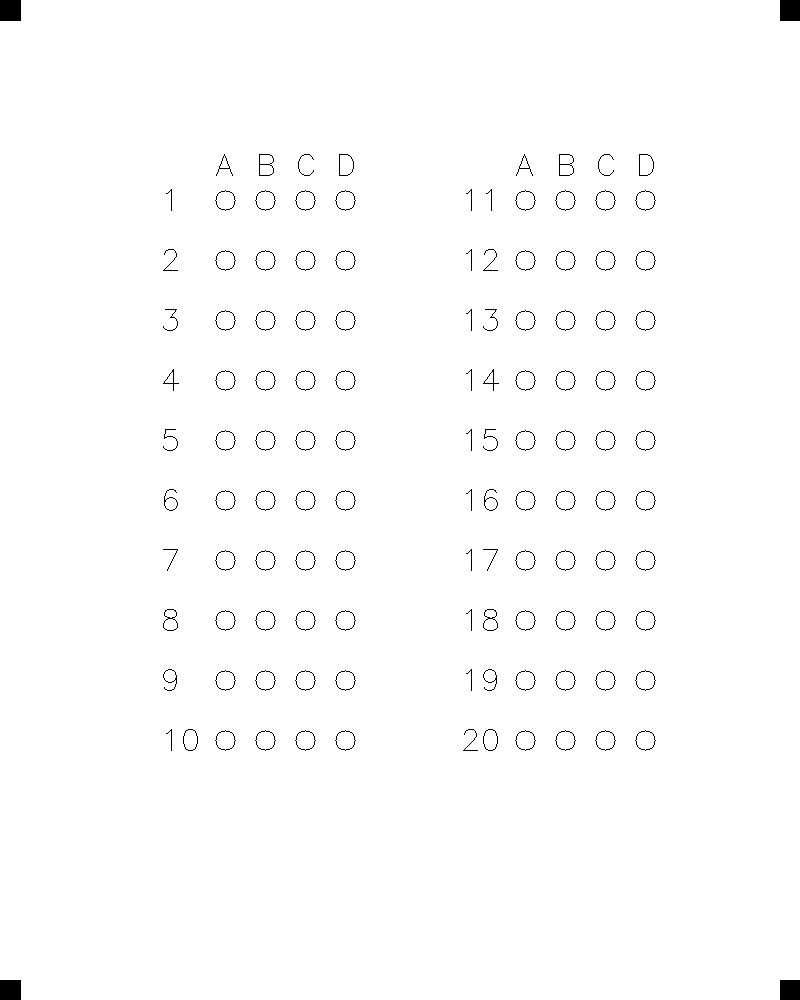
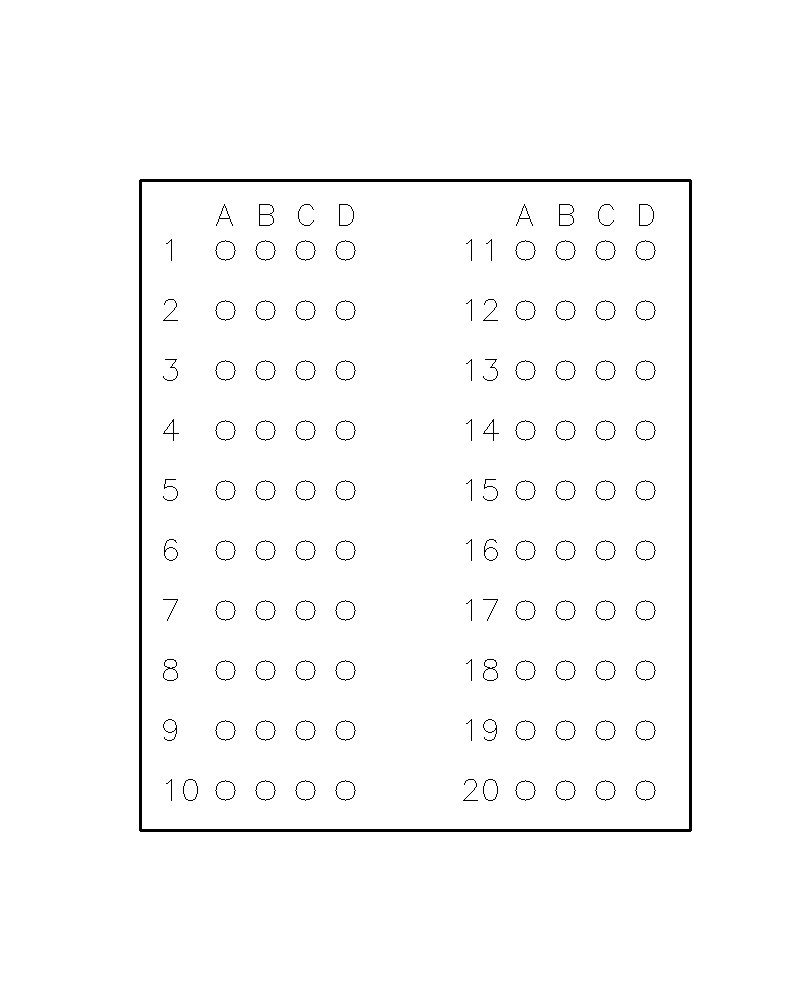
Meow

diff --git a/ServForAndroidApp/scan.py b/ServForAndroidApp/scan.py
@@ -5,7 +5,7 @@ import numpy as np
 widthImg = 800
 heightImg = 1000
 
-image = cv2.imread('test3.png')
+image = cv2.imread('test9.png')
 imgBlank = np.zeros((heightImg,widthImg, 3), np.uint8)
 gray = cv2.cvtColor(image, cv2.COLOR_BGR2GRAY)
 blurred = cv2.GaussianBlur(gray, (5, 5), 1)
@@ -13,7 +13,8 @@ blurred = cv2.GaussianBlur(gray, (5, 5), 1)
 #     blurred, 255, cv2.ADAPTIVE_THRESH_GAUSSIAN_C,
 #     cv2.THRESH_BINARY_INV, 11, 2
 # )
-adaptive_thresh = cv2.Canny(blurred, 70, 160)
+adaptive_thresh = cv2.Canny(blurred, 50, 200)
+
 kernel = np.ones((5, 5))
 dial = cv2.dilate(adaptive_thresh, kernel, iterations=2)
 adaptive_thresh = cv2.erode(dial, kernel, iterations=1)
@@ -23,7 +24,9 @@ imgBigContour = image.copy()
 
 contours, hierarchy = cv2.findContours(adaptive_thresh, cv2.RETR_EXTERNAL, cv2.CHAIN_APPROX_SIMPLE)
 cv2.drawContours(imgContours, contours, -1, (0, 255, 0), 10)
-
+imgcopy = cv2.resize(imgContours, (600, 750))
+cv2.imshow('origin', imgcopy)
+cv2.waitKey(0)
 
 
 def reorder(myPoints):
@@ -57,6 +60,13 @@ for i in contours:
     if area > 5000:
         peri = cv2.arcLength(i, True)
         approx = cv2.approxPolyDP(i, 0.02 * peri, True)
+
+        img_contours = np.uint8(np.zeros((image.shape[0], image.shape[1])))
+        cv2.drawContours(img_contours, [approx], -1, (255, 255, 255), 1)
+        imgcopy = cv2.resize(img_contours, (600, 750))
+        cv2.imshow('origin', imgcopy)
+        cv2.waitKey(0)
+
         if area > max_area and len(approx) == 4:
             biggest = approx
             max_area = area
@@ -78,101 +88,6 @@ if biggest.size != 0:
     imgAdaptiveThre = cv2.bitwise_not(imgAdaptiveThre)
     imgAdaptiveThre = cv2.medianBlur(imgAdaptiveThre, 3)
 
-#     imageArray = ([image, gray, adaptive_thresh, imgContours],
-#                   [imgBigContour, imgWarpColored, imgWarpGray, imgAdaptiveThre])
-#
-# else:
-#     imageArray = ([image,gray,adaptive_thresh,imgContours],
-#                     [imgBlank, imgBlank, imgBlank, imgBlank])
-
-
-cv2.imshow("Adaptive Threshold", imgAdaptiveThre)  # Отображаем адаптивный порог
+imgcopy = cv2.resize(imgAdaptiveThre, (600, 750))
+cv2.imshow('origin', imgcopy)
 cv2.waitKey(0)
-
-# # Применяем морфологическое закрытие для устранения мелких разрывов в контуре
-#
-# kernel = np.ones((5, 5), np.uint8)
-# closed = cv2.morphologyEx(adaptive_thresh, cv2.MORPH_CLOSE, kernel)
-# cv2.imshow("Morphological Closing", closed)  # Отображаем результат морфологического закрытия
-# cv2.waitKey(0)
-#
-# # Поиск контуров после морфологических преобразований
-# contours, _ = cv2.findContours(closed, cv2.RETR_EXTERNAL, cv2.CHAIN_APPROX_SIMPLE)
-#
-# # Инициализируем переменные для поиска контуров
-# sheet_contour = None
-# max_area = 0
-#
-# # Ищем контур, который является приблизительно прямоугольным
-# for contour in contours:
-#     area = cv2.contourArea(contour)
-#     if area > max_area:
-#         # Проверяем, является ли контур приблизительно прямоугольным
-#         approx = cv2.approxPolyDP(contour, 0.02 * cv2.arcLength(contour, True), True)
-#         if len(approx) == 4:  # Контур имеет 4 угла
-#             sheet_contour = approx
-#             max_area = area
-#
-# # Проверяем, что нашли контур листа
-# if sheet_contour is not None:
-#     # Рисуем найденный контур листа на изображении
-#     cv2.drawContours(image, [sheet_contour], -1, (0, 255, 0), 2)  # Рисуем контур листа зеленым цветом
-#     cv2.imshow("Detected Sheet Contour", image)  # Отображаем изображение с контуром листа
-#     cv2.waitKey(0)
-#
-#     # Создаем маску, чтобы ограничить область поиска внутри листа
-#     mask = np.zeros_like(gray)
-#     cv2.drawContours(mask, [sheet_contour], -1, 255, thickness=cv2.FILLED)
-#     sheet_area = cv2.bitwise_and(closed, closed, mask=mask)
-#
-#     # Отображаем область листа
-#     cv2.imshow("Sheet Area", sheet_area)
-#     cv2.waitKey(0)
-#
-#     # Поиск контуров внутри области листа для выявления маркеров
-#     contours, _ = cv2.findContours(sheet_area, cv2.RETR_EXTERNAL, cv2.CHAIN_APPROX_SIMPLE)
-#
-#     # Параметры для обнаружения углов
-#     corners = []
-#
-#     # Ищем квадратные маркеры внутри области листа
-#     for contour in contours:
-#         # Проверяем, похож ли контур на квадратный маркер
-#         approx = cv2.approxPolyDP(contour, 0.02 * cv2.arcLength(contour, True), True)
-#         x, y, w, h = cv2.boundingRect(approx)
-#
-#         if len(approx) == 4 and w >= 20 and h >= 20:
-#             # Определяем центр маркера
-#             center_x, center_y = x + w // 2, y + h // 2
-#             corners.append((center_x, center_y))
-#
-#     # Отображаем угловые маркеры
-#     for corner in corners:
-#         cv2.circle(image, corner, 10, (0, 0, 255), -1)
-#     cv2.imshow("Detected Corners on Sheet", image)
-#     cv2.waitKey(0)
-#
-#     # Проверяем, что нашли все 4 угла, и продолжаем выравнивание
-#     if len(corners) == 4:
-#         corners = sorted(corners, key=lambda x: (x[1], x[0]))
-#         if corners[0][0] > corners[1][0]:
-#             corners[0], corners[1] = corners[1], corners[0]
-#         if corners[2][0] < corners[3][0]:
-#             corners[2], corners[3] = corners[3], corners[2]
-#
-#         width, height = 800, 1000
-#         dst_points = np.float32([[0, 0], [width, 0], [width, height], [0, height]])
-#         src_points = np.float32(corners)
-#
-#         matrix = cv2.getPerspectiveTransform(src_points, dst_points)
-#         aligned_image = cv2.warpPerspective(image, matrix, (width, height))
-#
-#         # Отображаем выровненное изображение
-#         cv2.imshow("Aligned Image", aligned_image)
-#         cv2.waitKey(0)
-#     else:
-#         print("Не удалось обнаружить все четыре угловых маркера.")
-# else:
-#     print("Не удалось определить контур листа.")
-#
-# cv2.destroyAllWindows()

diff --git a/ServForAndroidApp/answersshet.py b/ServForAndroidApp/answersshet.py
@@ -4,7 +4,7 @@ import numpy as np
 # Параметры для макета
 width, height = 800, 1000  # Размер холста
 column_x_offsets = [200, 500]  # Отступы по X для двух столбцов
-y_start = 200  # Начальная позиция Y
+y_start = 250  # Начальная позиция Y
 y_gap = 60  # Расстояние между вопросами
 
 # Создаем белый холст
@@ -34,18 +34,21 @@ for column in column_x_offsets:
         for i in range(4):
             circle_x = column + i * 40 + 25
             circle_y = y_position
-            cv2.circle(canvas, (circle_x, circle_y), 10, (0, 0, 0), 1)
+            cv2.circle(canvas, (circle_x, circle_y), 10, (0, 0, 0), 1)  # Кружок
 
         # Переходим к следующему вопросу
         question_number += 1
         y_position += y_gap
 
-# Добавляем угловые метки для распознавания
-corner_size = 20
-cv2.rectangle(canvas, (0, 0), (corner_size, corner_size), (0, 0, 0), -1)  # Верхний левый
-cv2.rectangle(canvas, (width - corner_size, 0), (width, corner_size), (0, 0, 0), -1)  # Верхний правый
-cv2.rectangle(canvas, (0, height - corner_size), (corner_size, height), (0, 0, 0), -1)  # Нижний левый
-cv2.rectangle(canvas, (width - corner_size, height - corner_size), (width, height), (0, 0, 0), -1)  # Нижний правый
+# Определяем координаты рамки
+
+# rect_top_left = (column_x_offsets[0], y_start)  # Верхний левый угол (включая буквы и номера)
+# rect_bottom_right = (column_x_offsets[1] , y_position)  # Нижний правый угол (после последнего вопроса)
+# cv2.rectangle(canvas, rect_top_left, rect_bottom_right, (0, 0, 0), 1)  # Тонкая рамка
+
+rect_top_left = (column_x_offsets[0] - 60, y_start - 70)  # Верхний левый угол (включая буквы и номера)
+rect_bottom_right = (column_x_offsets[1] + 190, y_position - 20)  # Нижний правый угол (после последнего вопроса)
+cv2.rectangle(canvas, rect_top_left, rect_bottom_right, (0, 0, 0), 2)  # Тонкая рамка
 
 # Сохраняем изображение
 cv2.imwrite('answer_sheet_template.png', canvas)
